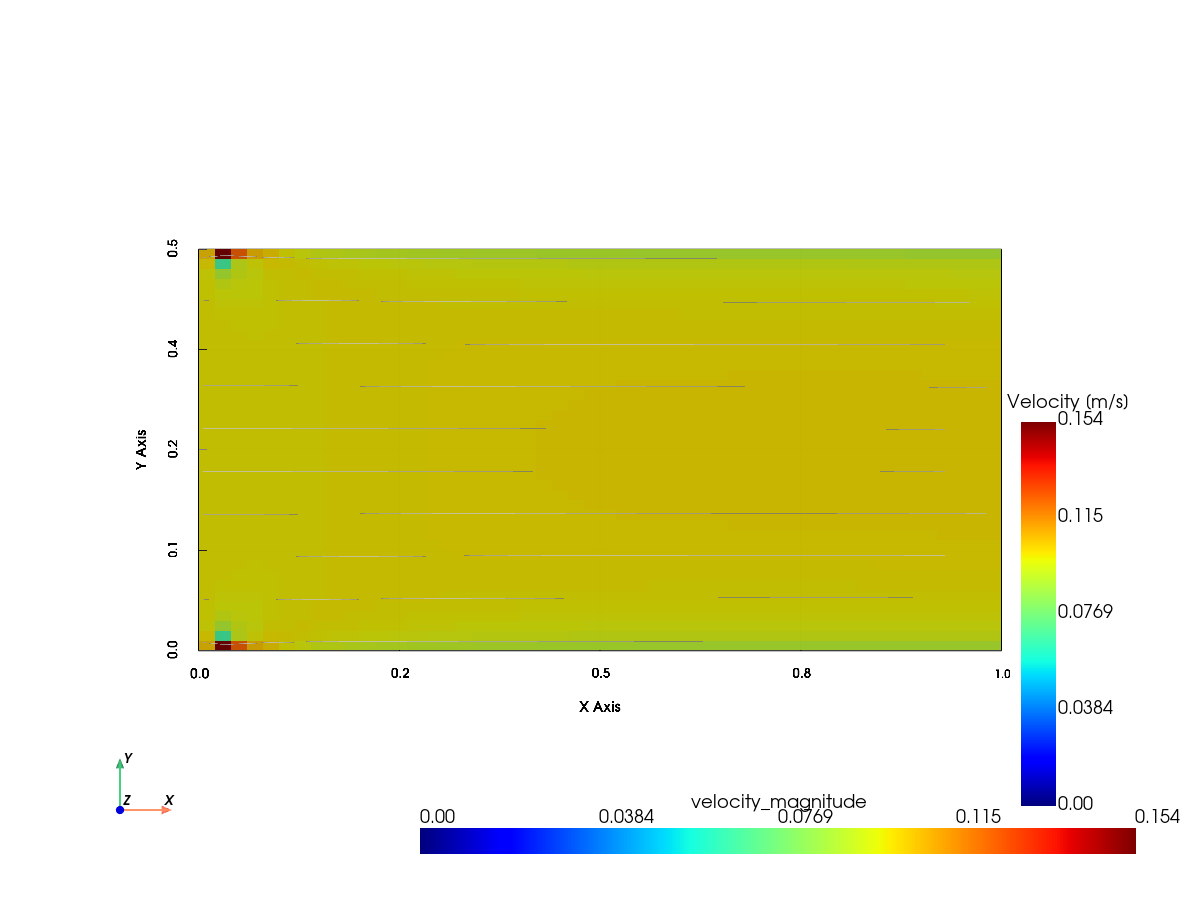
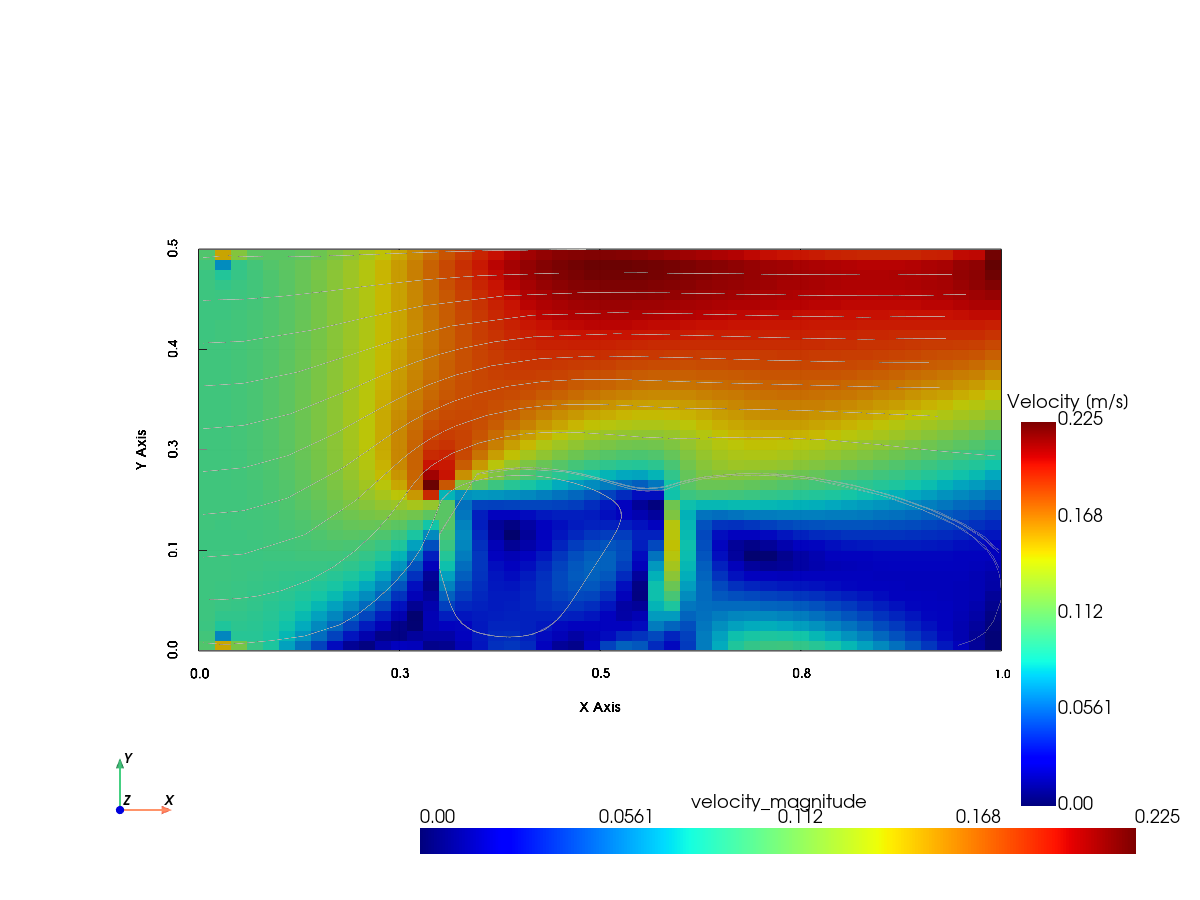
Add createBaffles step and update velocity visualization with heated baffle simulation

diff --git a/circuitboardcooling/circuitboardcooling/__main__.py b/circuitboardcooling/circuitboardcooling/__main__.py
@@ -251,6 +251,32 @@ def run_openfoam_case(
         logger.exception("blockMesh failed: %s", e.stderr.decode("utf-8"))
         raise
 
+    # Run createBaffles to create heated baffles (if createBafflesDict exists)
+    create_baffles_dict = case_dir / "system" / "createBafflesDict"
+    if create_baffles_dict.exists():
+        logger.info("Running createBaffles to create heated baffles...")
+        try:
+            output = client.containers.run(
+                openfoam_image,
+                command="/bin/bash -c 'source /opt/openfoam7/etc/bashrc && createBaffles -overwrite'",
+                volumes={str(case_dir.absolute()): {"bind": "/case", "mode": "rw"}},
+                working_dir="/case",
+                remove=True,
+                stdout=True,
+                stderr=True,
+                entrypoint="",
+            )
+            if output:
+                filtered_output = filter_openfoam_output(output)
+                if filtered_output:
+                    logger.info("createBaffles output:\n%s", filtered_output)
+            logger.info("createBaffles completed")
+        except docker.errors.ContainerError as e:
+            logger.exception("createBaffles failed: %s", e.stderr.decode("utf-8"))
+            raise
+    else:
+        logger.info("No createBafflesDict found, skipping baffle creation")
+
     # Run buoyantSimpleFoam solver
     logger.info("Running buoyantSimpleFoam solver...")
     try:
@@ -573,6 +599,9 @@ def setup_case(
             raise FileNotFoundError(msg)
         # Prepare initial conditions for existing case
         _prepare_initial_conditions(case_dir)
+        # Set permissions for Docker access
+        import subprocess
+        subprocess.run(["chmod", "-R", "777", str(case_dir)], check=True)  # noqa: S603, S607
         return case_dir
 
     # Copy from $FOAM_TUTORIALS if available
@@ -590,6 +619,9 @@ def setup_case(
             shutil.copytree(tutorial_src, case_dir)
             # Prepare initial conditions
             _prepare_initial_conditions(case_dir)
+            # Set permissions for Docker access
+            import subprocess
+            subprocess.run(["chmod", "-R", "777", str(case_dir)], check=True)  # noqa: S603, S607
             return case_dir
 
     # Extract from Docker container
@@ -631,6 +663,10 @@ def setup_case(
 
     # Prepare initial conditions: copy 0.orig to 0
     _prepare_initial_conditions(case_dir)
+
+    # Set permissions for Docker access
+    import subprocess
+    subprocess.run(["chmod", "-R", "777", str(case_dir)], check=True)  # noqa: S603, S607
 
     return case_dir
 
